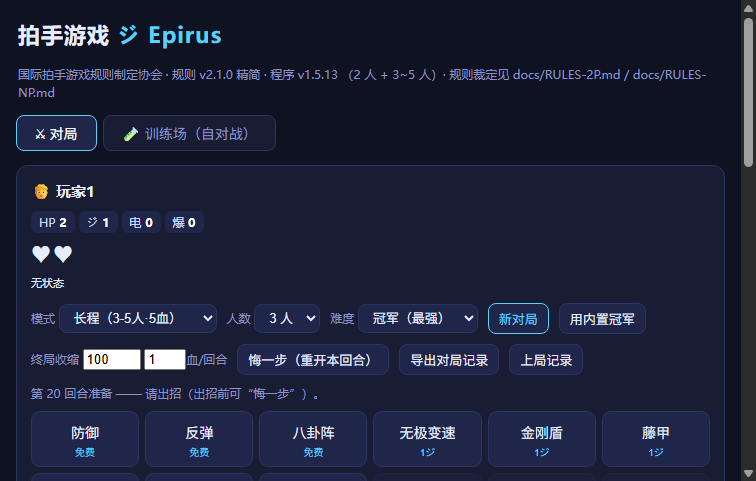
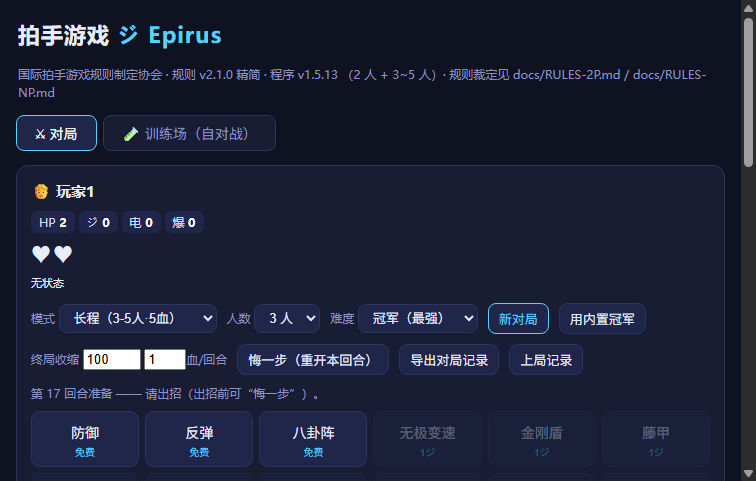
记录用户对 N14 镜面反射的澄清：没有无可复制，所有技能都能复制（无目标技能=空指，仍参与连带）
用户澄清原文：实际上镜面反射没有无可复制的技能，所有技能都可以复制，只不过有的技能没有目标那就相当于空指（单纯用于触发大雷传导）。例如 a 使用镜面反射复制 b 的反弹，指向 c，那这个指向本身不会有作用；但如果这时候正好有 d 大雷对 a 使用，那 c 会受到大雷传导的影响（而 a 和 b 因为有反弹所以不受影响）。

⇒ 当前实现（resolve.js 的 mirrorPass 里 copyEffect 返回 null 就发 mirrorNoEffect 无可复制）与规则不符，要改成：① 架势/自增益/能量类技能复制到使用者自己身上（自己也摆那个架势/也蓄能）；② 同时对 t2 形成一个空指（指向保留、不产生效果），供连带/传导这类依赖目标关系的判定使用；③ 只有 t1 行动已被作废时才无可复制。

训练前待修清单（用户要求先修规则再训练）：① 上述镜面反射实现；② AI 不会选蓄哪种珠 —— 引擎的 attemptAction 其实已接受 {bead} 参数，但 AI 路径是结算时按 elec>boom 猜的（ui.js），策略输出里根本没有 bead 这一项 ⇒ 冠军学不会为放电而蓄电珠，需要给策略加一个珠类型输出位并重训。

另已确认不是规则 bug 的三条（属训练暴露面）：小雷不打断聚能环、原型制御不防电磁炮、蓄能白费 —— 特征里有 电磁炮前摇/有人刚蓄能/ringStreak/禁用倒计时，legalActions 里持珠时电磁炮也确实可负担。

diff --git a/docs/RULES-NP.md b/docs/RULES-NP.md
@@ -306,7 +306,15 @@
 - 花费 3 ジ，优先级 3，分类「特殊」。**需要两个目标**：复制对象 t1（被作用者1）、输出对象 t2（被作用者2），且 t1 ≠ t2。
 - 结算：复制 **t1 本回合的技能**，由**使用者自己**对 t2 施加其效果。
   - 只复制「对他人造成伤害」的效果（含伤害类型与穿透属性）；**不复制**状态附加（禁用 / 无效化 / 贴符 / 挑衅 / 转移等）。
-  - t1 若使用架势 / 自增益 / 能量类（ジ / 蓄能 / 聚能环 / 避雷针 / 地雷 / 净化 / 无极变速 / 防御家族）→ 无可复制，仅消耗。
+  - ⚠ **v1.5.16 用户澄清（此前实现错了）**：**没有"无可复制"这回事 —— 所有技能都能复制**。
+    架势 / 自增益 / 能量类（ジ / 蓄能 / 聚能环 / 避雷针 / 地雷 / 净化 / 无极变速 / 防御家族）
+    **复制到使用者自己身上**（相当于自己也摆了那个架势 / 也蓄了能）；
+    同时对 t2 形成一个**"空指"**（指向本身不产生效果）。
+  - **空指仍然算"指向"**，要参与依赖目标关系的连锁判定。用户原话给出的例子：
+    「a 用镜面反射复制 b 的【反弹】，指向 c —— 这个指向本身没有作用；但若这时候正好 d 用【真正的落雷】打 a，
+    则 **c 会受到大雷传导的影响**，而 **a 和 b 因为有反弹所以不受影响**。」
+  - 换言之：复制非指向技能时，**复制体的目标 = t2 且保留**（只用于连带/传导这类交互），效果则落在使用者自己身上。
+  - t1 本回合行动已被作废（voided）→ 无可复制。
   - **双枪射手** → 只复制一个「枪」（原文特殊）。
   - 复制体的伤害来源是**使用者**，因此反弹 / 地雷按使用者结算。
   - t1 本回合行动已被作废（voided）→ 无可复制。
